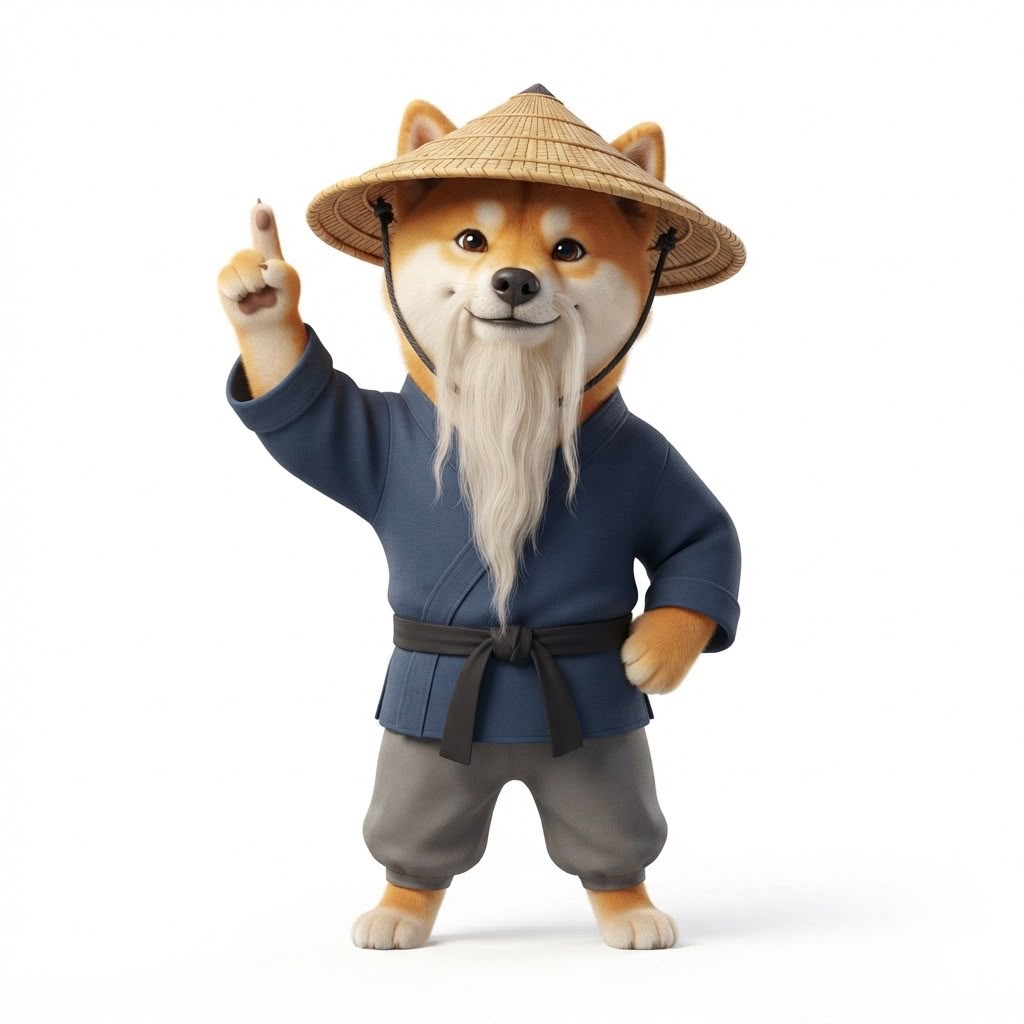
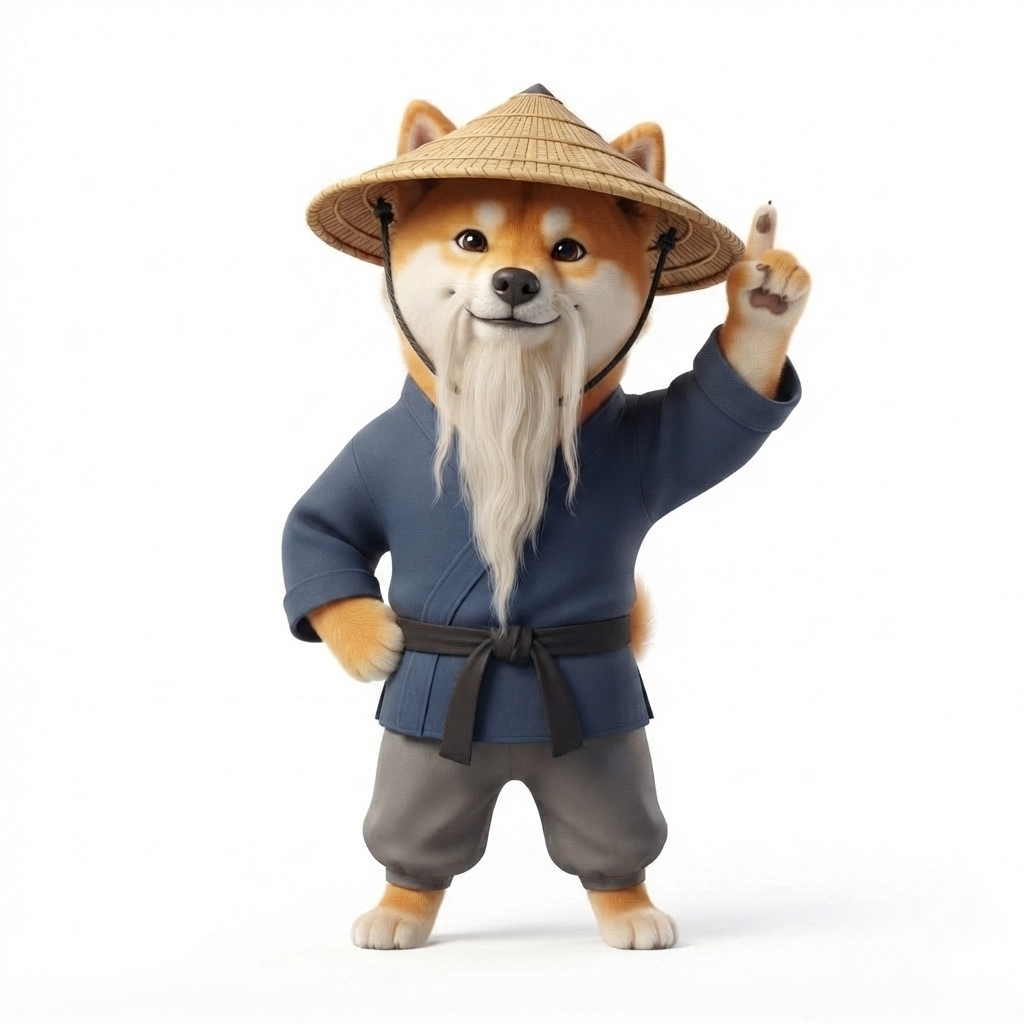
fix: layout redesign - bigger subjects/character, correct pointing, simpler subtitles, male voice

Changed region(s): [[0.5625, 0.1875, 0.8125, 0.6875], [0.1875, 0.1875, 0.4062, 0.6875], [0.375, 0.2812, 0.4062, 0.3125]]

diff --git a/flows/image_content_generator/remotion/src/Subtitles.tsx b/flows/image_content_generator/remotion/src/Subtitles.tsx
@@ -7,42 +7,15 @@ interface Word {
   end: number;
 }
 
-interface LevelMarker {
-  nivel: number;
-  titulo: string;
-  impacto: string;
-  startTime: number;
-  endTime: number;
-}
-
 const ACCENT = '#00FFFF';
-const TEXT_SHADOW = '0 2px 12px rgba(0,0,0,0.9), 0 4px 24px rgba(0,0,0,0.6)';
-const TEXT_STROKE = '3.5px #000000';
 
-const IMPACT_COLORS: Record<string, { from: string; to: string }> = {
-  Low: { from: '#00E676', to: '#00FFAA' },
-  Medium: { from: '#00BFFF', to: '#00FFFF' },
-  High: { from: '#FF4500', to: '#FF6B35' },
-  Extreme: { from: '#D500F9', to: '#E040FB' },
-};
-
-function getImpactGradient(impact: string): string {
-  const colors = IMPACT_COLORS[impact] || IMPACT_COLORS.Medium;
-  return `linear-gradient(135deg, ${colors.from}, ${colors.to})`;
-}
-
-function getImpactGlow(impact: string): string {
-  const colors = IMPACT_COLORS[impact] || IMPACT_COLORS.Medium;
-  return `0 0 20px ${colors.from}66, 0 0 40px ${colors.from}33`;
-}
-
-export const Subtitles: React.FC<{ words: Word[], topHeadline?: string, levelMarkers?: LevelMarker[] }> = ({ words, topHeadline, levelMarkers }) => {
+export const Subtitles: React.FC<{ words: Word[], topHeadline?: string }> = ({ words, topHeadline }) => {
   const frame = useCurrentFrame();
   const { fps } = useVideoConfig();
 
   const phrases: { words: Word[], start: number, end: number }[] = [];
-  for (let i = 0; i < words.length; i += 3) {
-    const chunk = words.slice(i, i + 3);
+  for (let i = 0; i < words.length; i += 4) {
+    const chunk = words.slice(i, i + 4);
     phrases.push({
       words: chunk,
       start: chunk[0].start,
@@ -52,34 +25,9 @@ export const Subtitles: React.FC<{ words: Word[], topHeadline?: string, levelMar
 
   const nowMs = (frame / fps) * 1000;
 
-  // Find current level marker
-  const currentLevel = levelMarkers ? levelMarkers.find(
-    lm => nowMs >= lm.startTime && nowMs < lm.endTime
-  ) : null;
-
-  // Progress for current level
-  const levelProgress = currentLevel
-    ? interpolate(
-        Math.min(Math.max((nowMs - currentLevel.startTime) / (currentLevel.endTime - currentLevel.startTime), 0), 1),
-        [0, 1],
-        [0, 100],
-      )
-    : 0;
-
-  // Level badge animation
-  const badgeScale = currentLevel
-    ? interpolate(
-        Math.min(Math.max((nowMs - currentLevel.startTime) / 200, 0), 1),
-        [0, 1],
-        [0.8, 1],
-        { easing: Easing.out(Easing.back) }
-      )
-    : 0;
-
   return (
     <div style={{ flex: 1, backgroundColor: '#00FF00', position: 'relative', overflow: 'hidden' }}>
-      
-      {/* Top Headline */}
+      {/* Top Headline (subject name) */}
       {topHeadline && (
         <div style={{
           position: 'absolute', top: 180, left: '50%', transform: 'translateX(-50%)',
@@ -94,59 +42,10 @@ export const Subtitles: React.FC<{ words: Word[], topHeadline?: string, levelMar
           }}>
             {topHeadline}
           </span>
-          <div style={{
-            width: 100, height: 4, margin: '14px auto 0',
-            background: `linear-gradient(90deg, transparent, ${ACCENT}, transparent)`,
-            boxShadow: `0 0 12px ${ACCENT}66`,
-          }}/>
         </div>
       )}
 
-      {/* Level Badge + Title */}
-      {currentLevel && levelMarkers && (
-        <div style={{
-          position: 'absolute', top: topHeadline ? 320 : 200,
-          left: '50%', transform: 'translateX(-50%)',
-          zIndex: 100, textAlign: 'center', width: '86%',
-          display: 'flex', flexDirection: 'column', alignItems: 'center', gap: 8,
-        }}>
-          {/* Badge */}
-          <div style={{
-            display: 'inline-flex', alignItems: 'center', gap: 8,
-            padding: '6px 20px',
-            borderRadius: 30,
-            background: getImpactGradient(currentLevel.impacto),
-            boxShadow: getImpactGlow(currentLevel.impacto),
-            transform: `scale(${badgeScale})`,
-          }}>
-            <span style={{
-              color: '#ffffff', fontSize: 22, fontWeight: 900,
-              fontFamily: '"Montserrat Black", Inter, Arial Black, sans-serif',
-              letterSpacing: '0.08em',
-            }}>
-              LEVEL {currentLevel.nivel}/7
-            </span>
-          </div>
-          {/* Level Title */}
-          <div style={{
-            padding: '4px 16px',
-            background: 'rgba(0,0,0,0.6)',
-            borderRadius: 8,
-            backdropFilter: 'blur(4px)',
-          }}>
-            <span style={{
-              color: '#ffffff', fontSize: 30, fontWeight: 700,
-              fontFamily: '"Montserrat Bold", Inter, Arial, sans-serif',
-              letterSpacing: '0.04em',
-              textShadow: '0 2px 8px rgba(0,0,0,0.5)',
-            }}>
-              {currentLevel.titulo}
-            </span>
-          </div>
-        </div>
-      )}
-
-      {/* Word Karaoke */}
+      {/* Word Karaoke - positioned between subjects and character */}
       {phrases.map((phrase, pi) => {
         const startMs = phrase.start;
         const endMs = phrase.end;
@@ -169,7 +68,7 @@ export const Subtitles: React.FC<{ words: Word[], topHeadline?: string, levelMar
 
         return (
           <div key={pi} style={{ 
-            position: 'absolute', left: 0, right: 0, top: 640,
+            position: 'absolute', left: 0, right: 0, top: 550,
             transform: `translateY(${phraseEnter}px)`,
             opacity: phraseOpacity,
             display: 'flex', justifyContent: 'center', zIndex: 100,
@@ -177,8 +76,10 @@ export const Subtitles: React.FC<{ words: Word[], topHeadline?: string, levelMar
           }}>
             <div style={{
               display: 'inline-flex', flexWrap: 'wrap', justifyContent: 'center',
-              alignItems: 'baseline', gap: 8, padding: '8px 16px',
-              maxWidth: '90%',
+              alignItems: 'baseline', gap: 8, padding: '12px 20px',
+              background: 'rgba(0,0,0,0.5)',
+              borderRadius: 12,
+              maxWidth: '92%',
             }}>
               {phrase.words.map((word, wi) => {
                 const wStart = word.start;
@@ -203,12 +104,14 @@ export const Subtitles: React.FC<{ words: Word[], topHeadline?: string, levelMar
                   <span key={wi} style={{
                     position: 'relative',
                     display: 'inline-block',
-                    fontSize: isCurrentWord ? 68 : 56,
+                    fontSize: isCurrentWord ? 62 : 50,
                     fontFamily: '"Montserrat Bold", Inter, Arial, sans-serif',
                     fontWeight: 700,
-                    color: isCurrentWord ? '#00FFFF' : '#ffffff',
-                    WebkitTextStroke: isCurrentWord ? TEXT_STROKE : '2.5px #000000',
-                    textShadow: isCurrentWord ? TEXT_SHADOW : '0 2px 10px rgba(0,0,0,0.6)',
+                    color: isCurrentWord ? ACCENT : '#ffffff',
+                    WebkitTextStroke: isCurrentWord ? '3px #000000' : '2px #000000',
+                    textShadow: isCurrentWord
+                      ? '0 2px 12px rgba(0,0,0,0.9), 0 0 20px #00FFFF44'
+                      : '0 2px 8px rgba(0,0,0,0.6)',
                     lineHeight: 1.3,
                     letterSpacing: '0.02em',
                     transform: `translateY(${wordSlideUp}px)`,
@@ -220,9 +123,9 @@ export const Subtitles: React.FC<{ words: Word[], topHeadline?: string, levelMar
                       <div style={{
                         position: 'absolute', bottom: -2, left: '5%', right: '5%',
                         height: 4,
-                        background: currentLevel ? getImpactGradient(currentLevel.impacto) : ACCENT,
+                        background: ACCENT,
                         borderRadius: 2,
-                        boxShadow: currentLevel ? getImpactGlow(currentLevel.impacto) : `0 0 14px ${ACCENT}88`,
+                        boxShadow: `0 0 14px ${ACCENT}88`,
                       }}/>
                     )}
                   </span>
@@ -232,54 +135,6 @@ export const Subtitles: React.FC<{ words: Word[], topHeadline?: string, levelMar
           </div>
         );
       })}
-
-      {/* Progress Bar (bottom) */}
-      {levelMarkers && levelMarkers.length > 0 && (
-        <div style={{
-          position: 'absolute', bottom: 100, left: 60, right: 60,
-          zIndex: 100,
-        }}>
-          {/* Level dots */}
-          <div style={{
-            display: 'flex', justifyContent: 'space-between', alignItems: 'center',
-            marginBottom: 8,
-          }}>
-            {levelMarkers.map((lm, i) => {
-              const isActive = nowMs >= lm.startTime && nowMs < lm.endTime;
-              const isPast = nowMs >= lm.endTime;
-              return (
-                <div key={i} style={{
-                  width: isActive ? 14 : 10,
-                  height: isActive ? 14 : 10,
-                  borderRadius: '50%',
-                  background: isPast || isActive
-                    ? getImpactGradient(lm.impacto)
-                    : 'rgba(255,255,255,0.25)',
-                  boxShadow: isActive ? getImpactGlow(lm.impacto) : 'none',
-                  transition: 'all 0.3s ease',
-                }}/>
-              );
-            })}
-          </div>
-          {/* Level labels */}
-          <div style={{
-            display: 'flex', justifyContent: 'space-between',
-          }}>
-            {levelMarkers.map((lm, i) => (
-              <span key={i} style={{
-                fontSize: 11,
-                fontFamily: '"Montserrat Bold", Inter, Arial, sans-serif',
-                fontWeight: 700,
-                color: nowMs >= lm.startTime ? '#ffffff' : 'rgba(255,255,255,0.3)',
-                textAlign: 'center',
-                transition: 'color 0.3s ease',
-              }}>
-                {lm.nivel}
-              </span>
-            ))}
-          </div>
-        </div>
-      )}
     </div>
   );
 };

diff --git a/flows/image_content_generator/pipeline/pipeline.py b/flows/image_content_generator/pipeline/pipeline.py
@@ -761,27 +761,27 @@ class Pipeline(BaseModelTool):
                 filters.append(f"[0:v]format=rgba[bg]")
 
                 idx = 1
-                # Overlay subject A (top-left, 400x400, rounded via alpha if needed)
+                # Overlay subject A (top-left, 480x480)
                 if img_a.exists() and sujeto in ("A", "ambos"):
                     inputs.append(f"-i {img_a}")
-                    filters.append(f"[{idx}:v]scale=400:400,format=rgba[img_a]")
-                    filters.append(f"[bg][img_a]overlay=x=100:y=200[bg]")
+                    filters.append(f"[{idx}:v]scale=480:480,format=rgba[img_a]")
+                    filters.append(f"[bg][img_a]overlay=x=40:y=60[bg]")
                     idx += 1
                     # Label above subject A
                     _name_a = sujeto_a.replace("'", "'\\\\''").replace(":", "\\:").replace("%", "\\%")
-                    filters.append(f"[bg]drawtext=text='{_name_a}':fontsize=24:fontcolor=white:box=1:boxcolor=black@0.6:boxborderw=8:x=300-text_w/2:y=158:fontfile='C\\:\\\\Windows\\\\Fonts\\\\arial.ttf':borderw=1:bordercolor=black@0.8[bg]")
+                    filters.append(f"[bg]drawtext=text='{_name_a}':fontsize=32:fontcolor=white:box=1:boxcolor=black@0.6:boxborderw=8:x=280-text_w/2:y=32:fontfile='C\\:\\\\Windows\\\\Fonts\\\\arial.ttf':borderw=2:bordercolor=black@0.8[bg]")
 
-                # Overlay subject B (top-right, 400x400)
+                # Overlay subject B (top-right, 480x480)
                 if img_b.exists() and sujeto in ("B", "ambos"):
                     inputs.append(f"-i {img_b}")
-                    filters.append(f"[{idx}:v]scale=400:400,format=rgba[img_b]")
-                    filters.append(f"[bg][img_b]overlay=x=580:y=200[bg]")
+                    filters.append(f"[{idx}:v]scale=480:480,format=rgba[img_b]")
+                    filters.append(f"[bg][img_b]overlay=x=560:y=60[bg]")
                     idx += 1
                     # Label above subject B
                     _name_b = sujeto_b.replace("'", "'\\\\''").replace(":", "\\:").replace("%", "\\%")
-                    filters.append(f"[bg]drawtext=text='{_name_b}':fontsize=24:fontcolor=white:box=1:boxcolor=black@0.6:boxborderw=8:x=780-text_w/2:y=158:fontfile='C\\:\\\\Windows\\\\Fonts\\\\arial.ttf':borderw=1:bordercolor=black@0.8[bg]")
+                    filters.append(f"[bg]drawtext=text='{_name_b}':fontsize=32:fontcolor=white:box=1:boxcolor=black@0.6:boxborderw=8:x=800-text_w/2:y=32:fontfile='C\\:\\\\Windows\\\\Fonts\\\\arial.ttf':borderw=2:bordercolor=black@0.8[bg]")
 
-                # Overlay stickman (bottom-center) — dynamic timeline if present
+                # Overlay stickman (bottom-center, large) — dynamic timeline if present
                 if stickman_timeline:
                     for tl_item in stickman_timeline:
                         tl_state = tl_item.state if hasattr(tl_item, 'state') else tl_item.get('state', 'estado_curiosidad')
@@ -791,20 +791,17 @@ class Pipeline(BaseModelTool):
                         if not state_file.exists():
                             continue
                         inputs.append(f"-i {state_file}")
-                        filters.append(f"[{idx}:v]scale=400:600,format=rgba[sm{idx}]")
+                        filters.append(f"[{idx}:v]scale=650:975,format=rgba[sm{idx}]")
                         enable = f":enable='between(t,{tl_start},{tl_end})'"
-                        filters.append(f"[bg][sm{idx}]overlay=x=340:y=800{enable}[bg]")
+                        filters.append(f"[bg][sm{idx}]overlay=x=215:y=580{enable}[bg]")
                         idx += 1
                 elif stickman.exists():
                     inputs.append(f"-i {stickman}")
-                    filters.append(f"[{idx}:v]scale=400:600,format=rgba[sm]")
-                    filters.append(f"[bg][sm]overlay=x=340:y=800[bg]")
+                    filters.append(f"[{idx}:v]scale=650:975,format=rgba[sm]")
+                    filters.append(f"[bg][sm]overlay=x=215:y=580[bg]")
                     idx += 1
 
-                # Add visual text if present
-                if visual_text:
-                    escaped = visual_text.replace("'", "'\\\\''").replace(":", "\\:").replace("%", "\\%")
-                    filters.append(f"[bg]drawtext=text='{escaped}':fontsize=42:fontcolor=black:x=(w-text_w)/2:y=650:fontfile='C\\:\\\\Windows\\\\Fonts\\\\arial.ttf'[bg]")
+                # Remove visual text drawtext (subject labels are above images; names at bottom removed)
 
                 filter_complex = "; ".join(filters) if filters else "null"
 

diff --git a/tools/audio_generation/vertex_ai_tts.py b/tools/audio_generation/vertex_ai_tts.py
@@ -41,10 +41,10 @@ class VertexAIAudioGenerator(BaseModelTool):
         synthesis_input = texttospeech.SynthesisInput(text=text)
 
         # Build the voice request
-        # Using energetic, lively male Studio voice
+        # Using warm, deep male Studio voice
         voice = texttospeech.VoiceSelectionParams(
             language_code="en-US",
-            name="en-US-Studio-O" # Energetic, lively male Studio voice
+            name="en-US-Studio-Q" # Warm, deep male Studio voice
         )
 
         # Select the type of audio file you want returned
